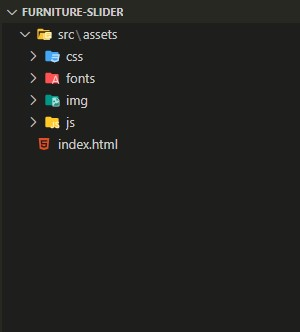
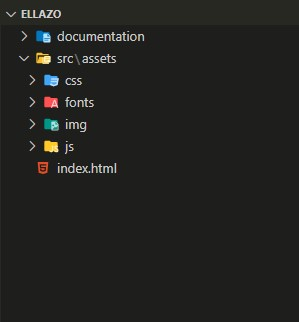
ellazo completed

Changed region(s): [[0.0301, 0.0, 0.4816, 0.559]]

diff --git a/ellazo-noImages/index.html b/ellazo-noImages/index.html
@@ -7,7 +7,7 @@
     <meta name="viewport" content="width=device-width, initial-scale=1">
 
     <!-- Title -->
-    <title>Furniture Bootstrap v5 Slider Template</title>
+    <title>Ellazo - Furniture Bootstrap v5 Slider Template</title>
 
     <!-- Stylesheets -->
     <link href="src/assets/css/bootstrap.min.css" rel="stylesheet">

diff --git a/index.html b/index.html
@@ -7,7 +7,7 @@
     <meta name="viewport" content="width=device-width, initial-scale=1">
 
     <!-- Title -->
-    <title>Furniture Bootstrap v5 Slider Template</title>
+    <title>Ellazo -Furniture Bootstrap v5 Slider Template</title>
 
     <!-- Stylesheets -->
     <link href="src/assets/css/bootstrap.min.css" rel="stylesheet">
